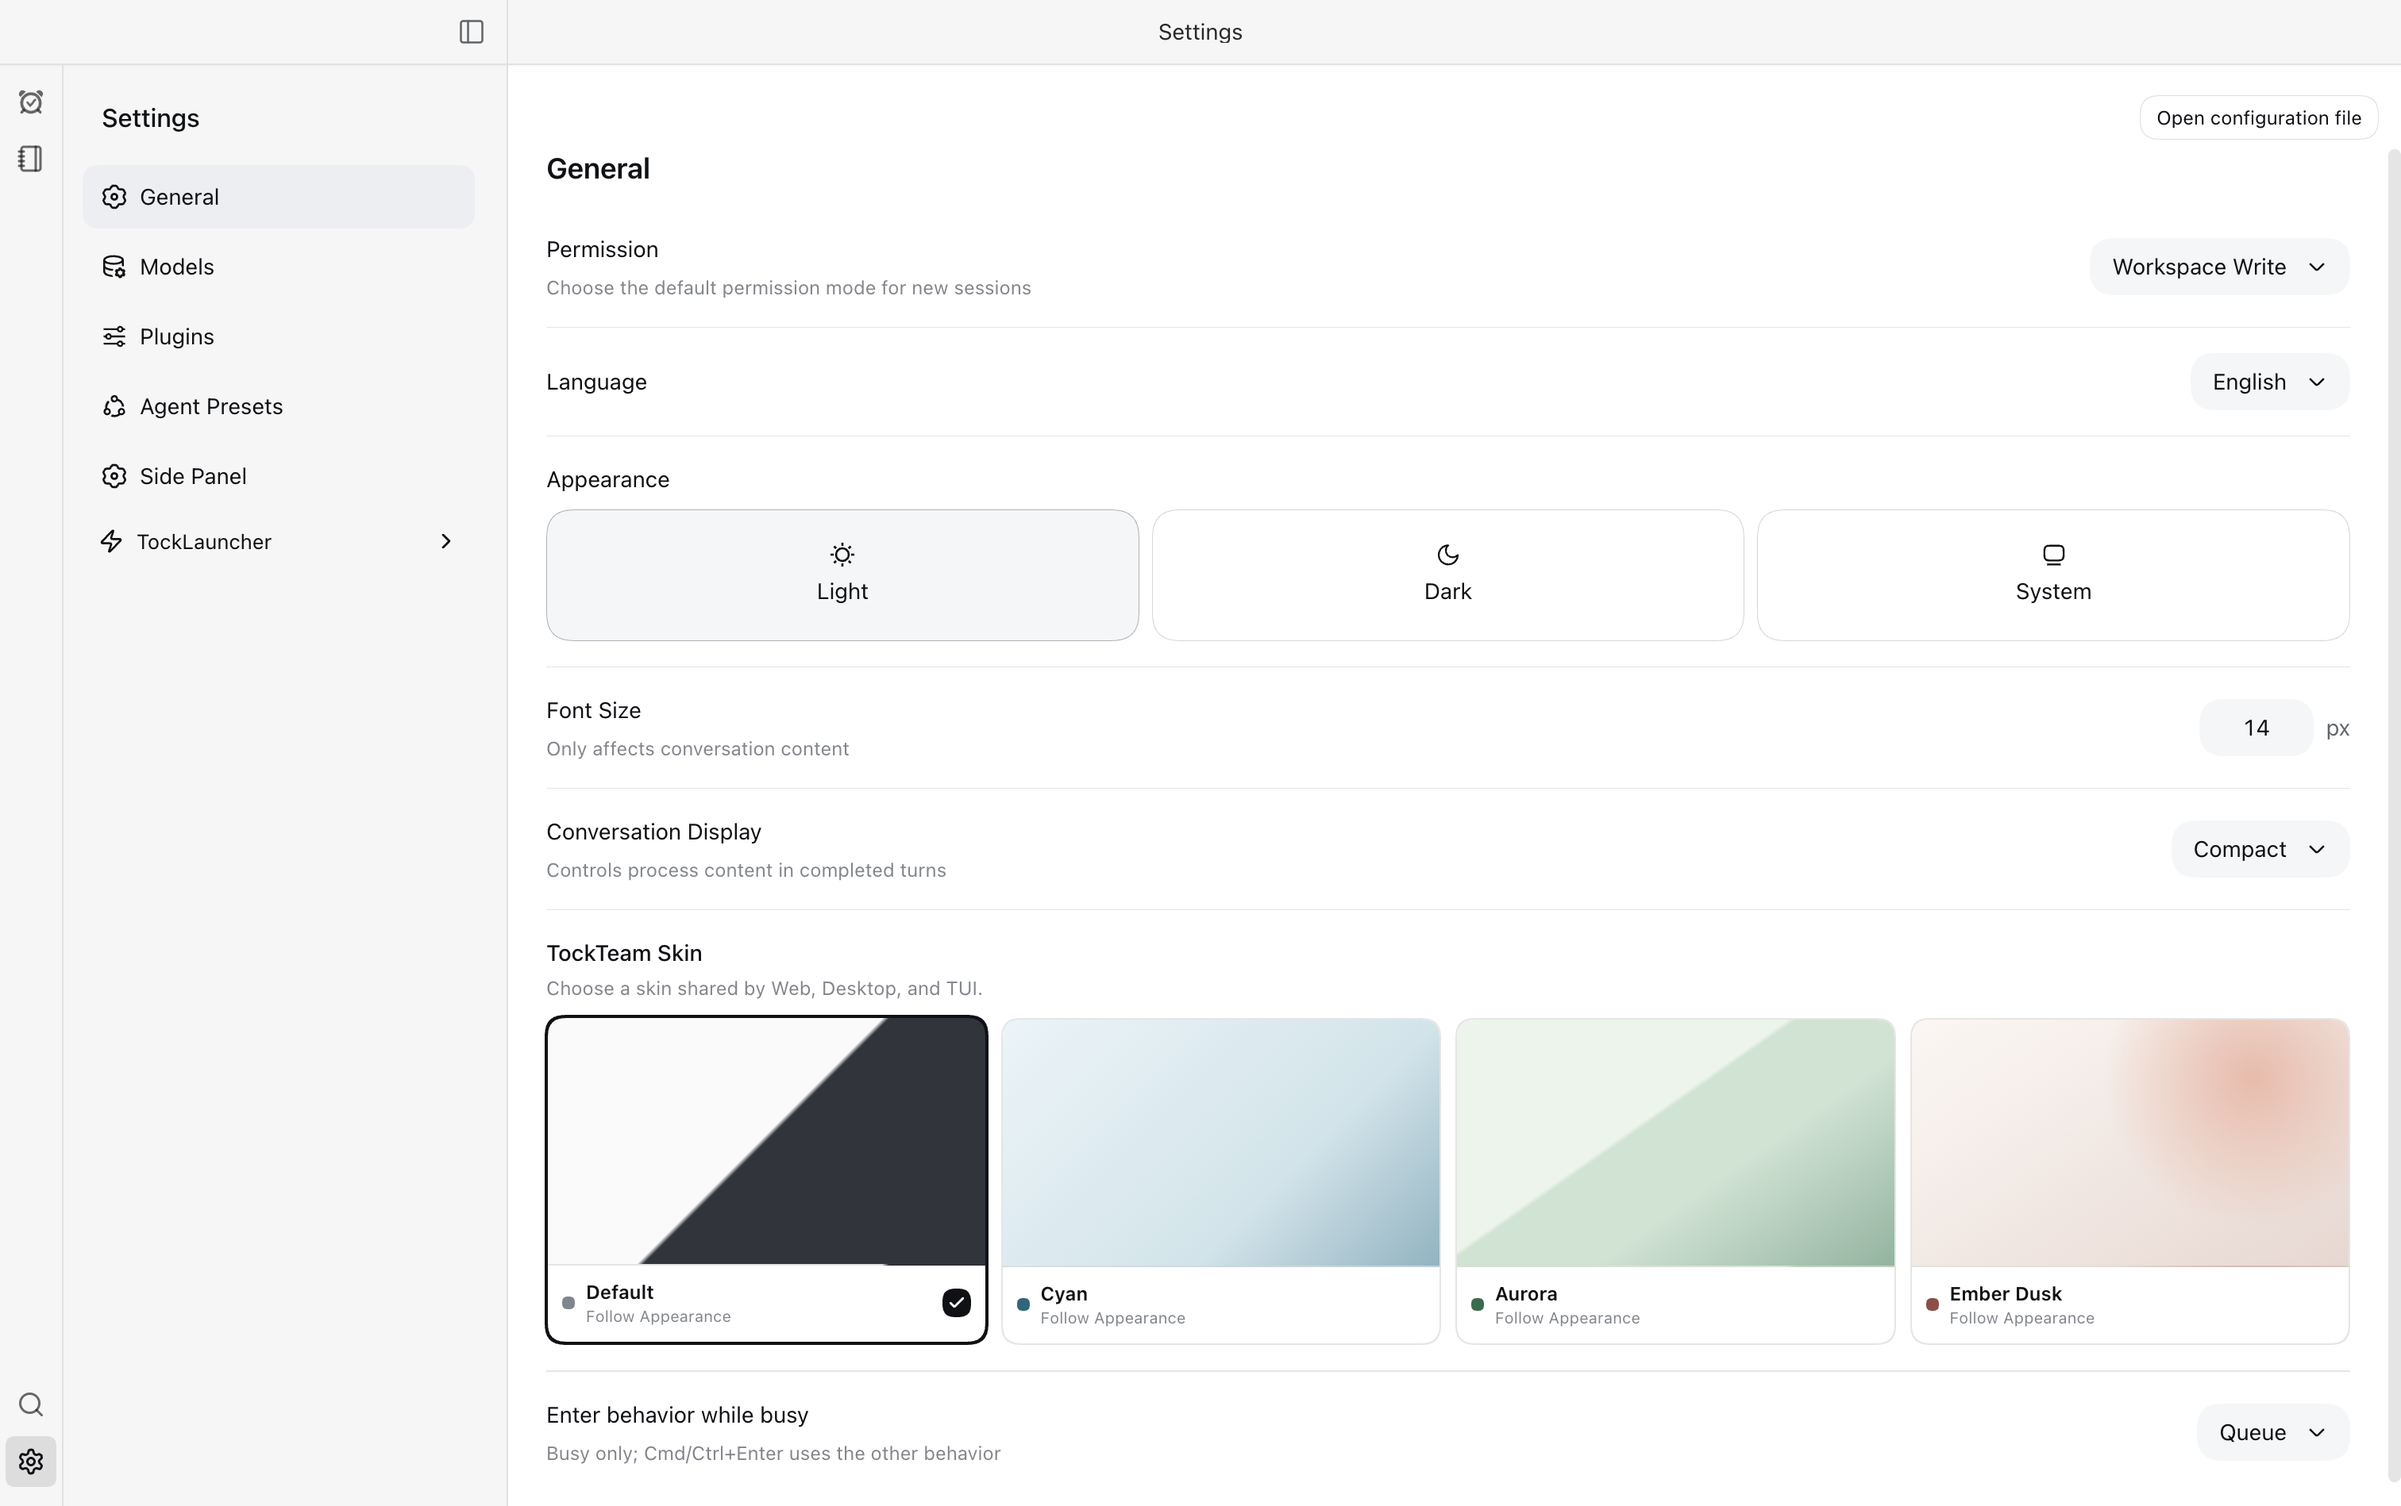
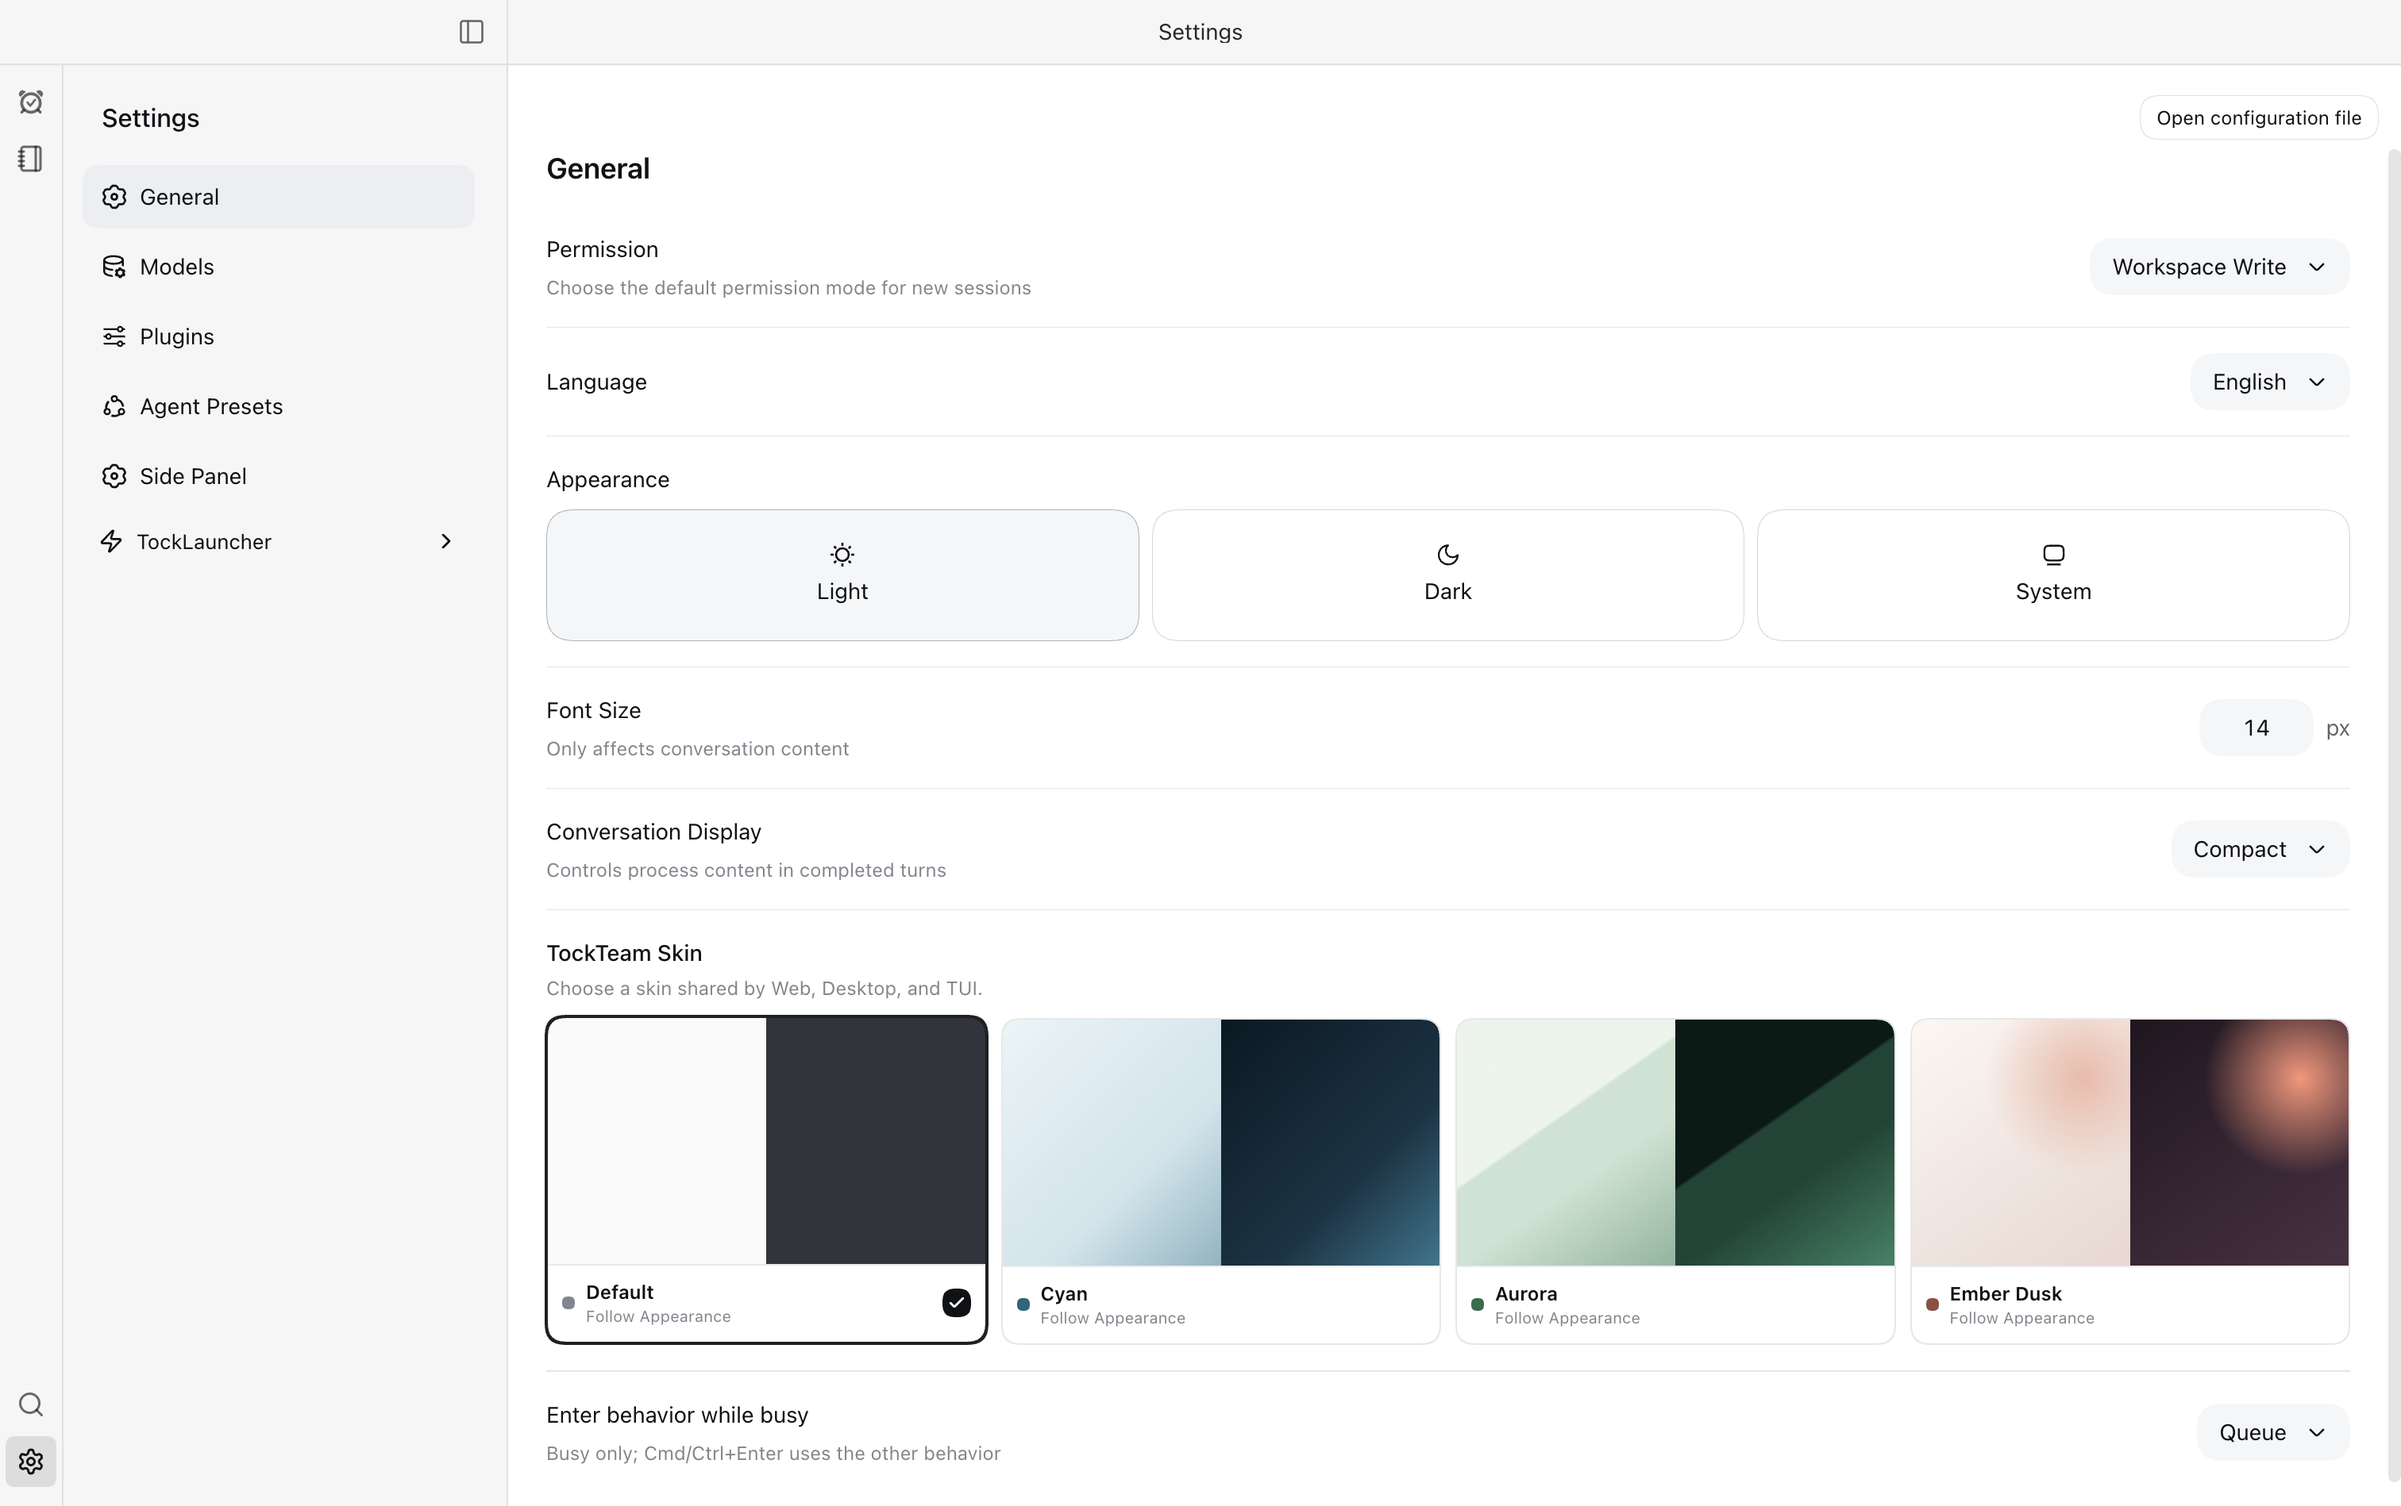
Refresh paired skin screenshots with split card previews

Changed region(s): [[0.4663, 0.6528, 0.8082, 0.8393], [0.8393, 0.6528, 0.9947, 0.8393], [0.2487, 0.6528, 0.373, 0.8393]]

diff --git a/tests/skins-gallery.test.ts b/tests/skins-gallery.test.ts
@@ -59,7 +59,14 @@ test('shows four skin rows with verified Light-left and Dark-right captures', ()
       assert.equal(capture.route, '/settings', file)
       assert.equal(capture.selected, true, file)
       assert.ok(capture.contrast >= 4.5, file)
+      assert.equal(capture.allCardsVerified, true, file)
+      assert.equal(capture.preview?.name, label, file)
+      assert.match(capture.preview.light, /^background:/u, file)
+      assert.match(capture.preview.dark, /^background:/u, file)
+      assert.notEqual(capture.preview.light, capture.preview.dark, file)
       assert.deepEqual(capture.errors, [], file)
     }
+    const pair = proof.captures.filter((capture: { family: string }) => capture.family === label)
+    assert.deepEqual(pair[0].preview, pair[1].preview, `${label} preview does not change with Appearance`)
   }
 })
